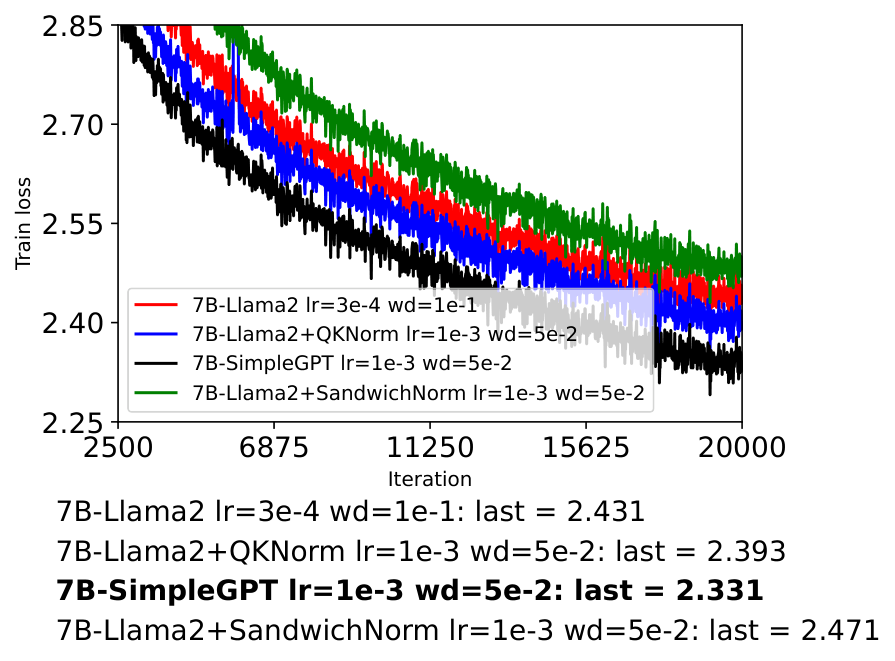
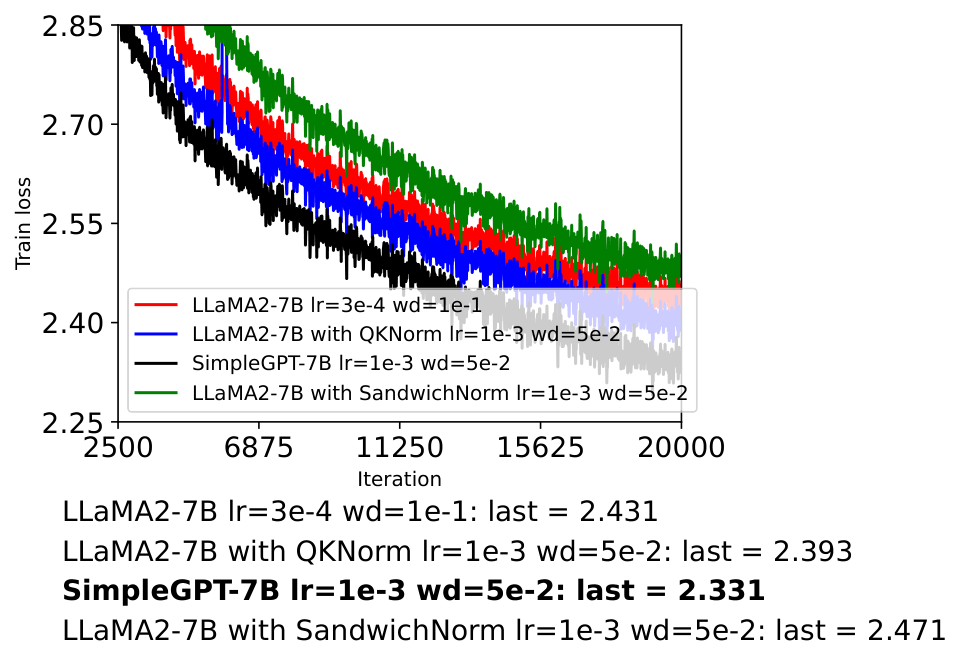
SimpleGPT

diff --git a/README.md b/README.md
@@ -1,10 +1,10 @@
 # ICML Rebuttal Figures
 
-## 1. Sandwich Comparison
+## Figure 1: Comparison of training performance among LLaMA2-7B, LLaMA2-7B with QKNorm, LLaMA2-7B with SandwichNorm, and SimpleGPT-7B.
 ![Sandwich](images/Llama2-7B_20K_compareSandwich_smooth.png)
 
-## 2. Ablation Study
+## Figure 2: Ablation study of SimpleNorm. The blue curve corresponds to the model with SimpleNorm applied only to the FFN, the red curve corresponds to the model with SimpleNorm applied only to self-attention, and the black curve corresponds to SimpleGPT-7B.
 ![Ablation](images/Llama2-7B_lr1e-3_wd0.05_20K_ablation_smooth.png)
 
-## 3. RMSNorm Gamma Comparison
+## Figure 3: Distribution statistics of the RMSNorm gain parameter $\gamma$ for LLaMA2-7B, LLaMA2-7B with QKNorm, and SimpleGPT-7B.
 ![RMSNorm](images/rmsnorm_gamma_7b_compare.png)
